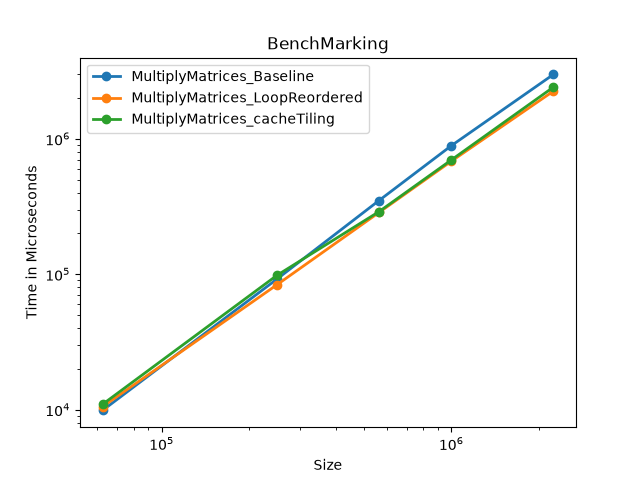
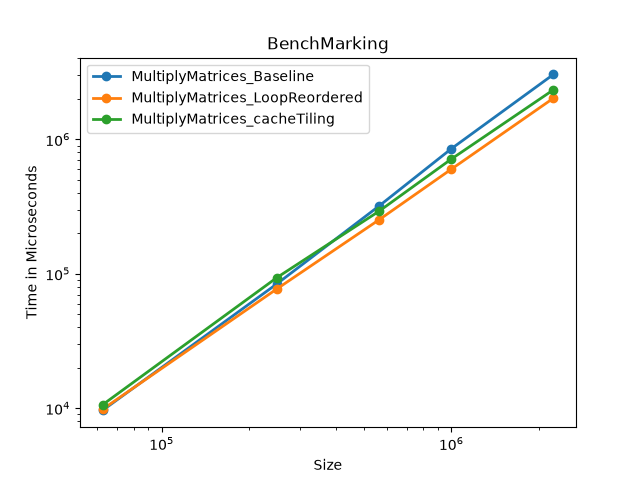
SIMD completed

diff --git a/src/benchmark/main.cpp b/src/benchmark/main.cpp
@@ -141,6 +141,7 @@ void runThreadingBenchmarks()
 
 	}
 
+
 	std::cout << "Saving to Csv...\n";
 	reporter.saveToCsv("../../../results/Threading_results.csv");
 
@@ -152,7 +153,68 @@ void runThreadingBenchmarks()
 	
 }
 
+void runSIMDBenchmarks()
+{
+	Timer timer_SIMD;
+	Timer timer_multiThreaded_SIMD;
+	BenchMarkReporter reporter;
+
+	//perfect multiple of 8 due to usage of AVX2 registers
+	std::vector<size_t> testSizes = { 256, 512, 768, 1000, 1536, 2000};
+	size_t numThreads = 20;
+
+	for (size_t N : testSizes)
+	{
+		std::vector<int> matrixA(N * N, 2);
+		std::vector<int> matrixB(N * N, 4);
+		std::vector<int> result(N * N, 0);
+
+		timer_SIMD.Start();
+		multiplyMatrices_SIMD(matrixA, matrixB, result, N);
+		timer_SIMD.Stop();
+
+		double duration_SIMD = timer_SIMD.elapsedMicroseconds();
+		reporter.addRecords("MatrixMultiply_SIMD_1Core", N*N, duration_SIMD);
+
+
+		std::fill(result.begin(), result.end(), 0);
+
+
+
+		timer_multiThreaded_SIMD.Start();
+		multiplyMatrices_multiThreaded_SIMD(matrixA, matrixB, result, N, numThreads);
+		timer_multiThreaded_SIMD.Stop();
+
+		double duration_multiThreaded_SIMD = timer_multiThreaded_SIMD.elapsedMicroseconds();
+		reporter.addRecords("MatrixMultiply_SIMD_MultiThreaded", N*N, duration_multiThreaded_SIMD);
+	}
+
+	std::cout << "Saving to CSV...\n";
+	reporter.saveToCsv("../../../results/SIMD_results.csv");
+
+	std::cout << "Visualizing...\n";
+	std::system("python \"../../../scripts/results_SIMD_plot.py\"");
+
+	std::cout << "SIMD BenchMarking completed\n";
+
+	
+}
+
+void MatrixMathCompiledPlotting()
+{
+	std::cout << "<=================================================>\n";
+	std::cout << "======Visualizing Compiled Matrix Math Plot========\n";
+	std::cout << "<=================================================>\n";
+
+	std::system("python \"../../../scripts/results_MatrixMath_Final_plot.py\"");
+}
+
 int main()
 {
+	runMatrixBenchmarks();
 	runThreadingBenchmarks();
+	runSIMDBenchmarks();
+	
+	MatrixMathCompiledPlotting();
+
 }

diff --git a/src/algorithms/MatrixMath_multiThreaded_SIMD.cpp b/src/algorithms/MatrixMath_multiThreaded_SIMD.cpp
@@ -1,0 +1,56 @@
+#include "MatrixMath.hpp"
+#include <immintrin.h>
+#include <thread>
+
+template<>
+void multiplyMatrices_multiThreaded_SIMD(const std::vector<int>& firstMatrix, const std::vector<int>& secondMatrix, std::vector<int>& resultMatrix, size_t dimension, size_t numThreads)
+{
+	size_t N = dimension;
+	size_t chunk = N / numThreads;
+
+	std::vector<std::thread> threads;
+
+	for (size_t t = 0; t < numThreads; t++)
+	{
+		size_t startRow = t * chunk;
+
+		size_t endRow = (t == numThreads - 1) ? N : (startRow + chunk);
+
+		threads.emplace_back([&, startRow, endRow]() {
+			
+			for (size_t i = startRow; i < endRow; i++)
+			{
+				for (size_t k = 0; k < N; k++)
+				{
+					int a_ik = firstMatrix[i * N + k];
+
+					__m256i vecA = _mm256_set1_epi32(a_ik);
+
+					for (size_t j = 0; j < N; j += 8)
+					{
+						__m256i vecB = _mm256_loadu_si256((__m256i*) & secondMatrix[k * N + j]);
+
+						__m256i resultVec = _mm256_loadu_si256((__m256i*) & resultMatrix[i * N + j]);
+
+						__m256i temp = _mm256_mullo_epi32(vecA, vecB);
+
+						resultVec = _mm256_add_epi32(resultVec, temp);
+
+						_mm256_storeu_si256((__m256i*) & resultMatrix[i * N + j], resultVec);
+					}
+				}
+			}
+			
+			
+		});
+	}
+
+
+	for (auto& th : threads)
+	{
+		th.join();
+	}
+
+
+}
+

diff --git a/scripts/results_MatrixMath_Final_plot.py b/scripts/results_MatrixMath_Final_plot.py
@@ -1,0 +1,48 @@
+import pandas as pd
+import matplotlib.pyplot as plt
+from pathlib import Path
+
+script_dir = Path(__file__).parent
+
+matrix_csv = script_dir.parent / "results" / "Matrix_results.csv"
+threading_csv =  script_dir.parent / "results" / "Threading_results.csv"
+simd_csv = script_dir.parent / "results" / "SIMD_results.csv"
+
+df_matrix = pd.read_csv(matrix_csv)
+df_thread = pd.read_csv(threading_csv)
+df_simd = pd.read_csv(simd_csv)
+
+for df in [df_matrix, df_thread, df_simd]:
+    df.columns = df.columns.str.strip()
+
+best_matrix = df_matrix[df_matrix["Algorithm"] == "MultiplyMatrices_LoopReordered"]
+best_thread = df_thread[df_thread["Algorithm"] == "MultiplyMatrices_MultiThreading"]
+best_simd_single = df_simd[df_simd["Algorithm"] == "MatrixMultiply_SIMD_1Core"]
+best_simd_multi = df_simd[df_simd["Algorithm"] == "MatrixMultiply_SIMD_MultiThreaded"]
+
+df_combined = pd.concat([best_matrix, best_thread, best_simd_single, best_simd_multi])
+
+plt.figure(figsize = (10, 6))
+
+for algo, grp in df_combined.groupby("Algorithm"):
+    sorted_grp = grp.sort_values("InputSize")
+    plt.plot(
+        sorted_grp["InputSize"],
+        sorted_grp["TimeMicroseconds"],
+        label = algo,
+        marker = 'o',
+        linewidth = 2
+    )
+
+plt.xscale('log')
+plt.yscale('log')
+
+plt.legend()
+plt.xlabel("Size (N*N)")
+plt.ylabel("Time in Microseconds")
+plt.title(" The Final Compiled (Matrix Math) Hardware Scaling ")
+plt.grid(True, which = "both", ls = "--", alpha = 0.5)
+
+graph_path = script_dir.parent / "plots" / "MatrixMath_Compiled_Benchmarking.png"
+plt.savefig(graph_path)
+plt.show()

diff --git a/scripts/results_SIMD_plot.py b/scripts/results_SIMD_plot.py
@@ -1,0 +1,39 @@
+import pandas as pd
+import matplotlib.pyplot as plt
+from pathlib import Path
+
+
+script_dir = Path(__file__).parent
+
+csv_path = script_dir.parent / "results" / "SIMD_results.csv"
+graph_path = script_dir.parent / "plots" / "SIMD_Benchmarking.png"
+
+df = pd.read_csv(csv_path)
+
+df.columns = df.columns.str.strip()
+
+for algo, grp in df.groupby("Algorithm"):
+
+    sorted_grp = grp.sort_values("InputSize")
+
+    plt.plot(
+        sorted_grp["InputSize"],
+        sorted_grp["TimeMicroseconds"],
+        label = algo,
+        marker = 'o',
+        linewidth = 2,
+        )
+
+plt.xscale('log')
+plt.yscale('log')
+
+plt.legend()
+
+plt.xlabel("Size")
+plt.ylabel("Time in Microseconds")
+
+plt.title("BenchMarking")
+
+plt.savefig(graph_path)
+
+plt.show()

diff --git a/src/algorithms/MatrixMath_SIMD.cpp b/src/algorithms/MatrixMath_SIMD.cpp
@@ -1,0 +1,35 @@
+#include "MatrixMath.hpp"
+#include <immintrin.h> // intel intrinsics header
+#include <vector>
+
+template<>
+void multiplyMatrices_SIMD(const std::vector<int>& firstMatrix, const std::vector<int>& secondMatrix, std::vector<int>& resultMatrix, size_t dimension)
+{
+	size_t N = dimension;
+
+	for (size_t i = 0; i < N; i++)
+	{
+		for (size_t k = 0; k < N; k++)
+		{
+			int a_ik = firstMatrix[i * N + k];
+
+			//cloning a_ik 8 times into a 256-bit register //broadcasting
+			__m256i vecA = _mm256_set1_epi32(a_ik);
+
+			for (size_t j = 0; j < N; j+=8)
+			{
+				__m256i vecB = _mm256_loadu_si256((__m256i*) & secondMatrix[k * N + j]);
+
+				__m256i resultVec = _mm256_loadu_si256((__m256i*) & resultMatrix[i*N +j]);
+
+				__m256i temp = _mm256_mullo_epi32(vecA, vecB);
+
+				resultVec = _mm256_add_epi32(resultVec, temp);
+
+				_mm256_storeu_si256((__m256i*)&resultMatrix[i*N + j], resultVec);
+
+			}
+
+		}
+	}
+}

diff --git a/include/MatrixMath.hpp b/include/MatrixMath.hpp
@@ -12,3 +12,9 @@ void multiplyMatrices_cacheTiling(const std::vector<T>& firstMatrix, const std::
 
 template<typename T>
 void multiplyMatrices_multiThreaded(const std::vector<T>& firstMatrix, const std::vector<T>& secondMatrix, std::vector<T>& resultMatrix, size_t dimension, size_t numThreads);
+
+template<typename T>
+void multiplyMatrices_SIMD(const std::vector<T>& firstMatrix, const std::vector<T>& secondMatrix, std::vector<T>& resultMatrix, size_t dimension);
+
+template<typename T>
+void multiplyMatrices_multiThreaded_SIMD(const std::vector<T>& firstMatrix, const std::vector<T>& secondMatrix, std::vector<T>& resultMatrix, size_t dimension, size_t numThreads);